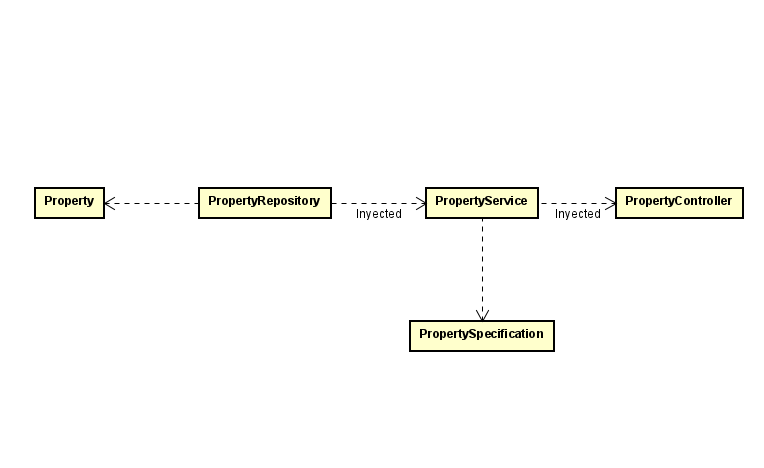
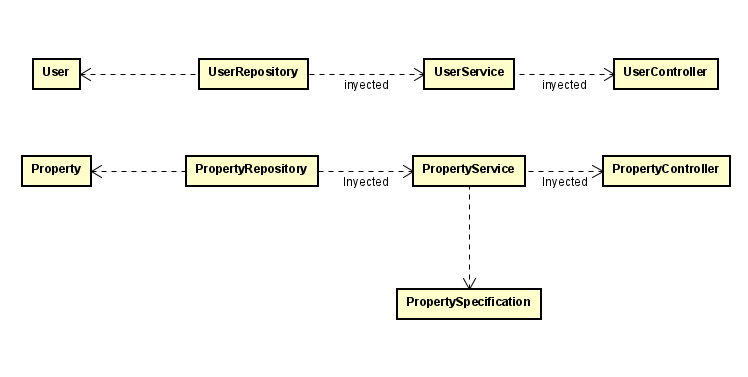
change readme

diff --git a/README.MD b/README.MD
@@ -1,36 +1,20 @@
 # Spring Server
+This repository contains an example of how to build a web server using Spring. It covers the complete process of creating the model, repository, service, and controller, as well as an additional class for filtering data during fetching. The project uses a MySQL database to persist data and is deployed to run in the cloud with AWS.
 
-This repository contains an example of how to build a web server using Spring. It covers the complete process of creating the model, repository, service, and controller, as well as an additional class for filtering data during fetching. The project uses a MySQL database to persist data and is deployed to work in the cloud with AWS.
+Additionally, a secure connection was implemented using Let's Encrypt certificates, enabling HTTPS requests to the pages. Furthermore, the deployment includes an Apache web server to provide a complete service.
 
 ## Getting Started
 
 This project is built in Java using Maven. Additional Spring Boot dependencies, such as Spring Web and JPA, are included in the pom.xml file.
 
-Important: This server requires a properly configured database to work. You must update the connection settings in the /src/main/resources/application.properties file.
+Important: This server requires a properly configured database to function. The database is set up in the docker-compose file, so use this as a reference to modify users or other aspects as needed.
 
 ### Prerequisites
 
 Before running this project, ensure you have the following installed on your system:
 
-* Java Development Kit (JDK) 21 or more
-    * Download and install from: [Oracle JDK or OpenJDK](https://www.oracle.com/co/java/technologies/downloads/)
-    * Verify installation with:
-        ```
-        java -version
-        ```
-* Apache Maven (for dependency management and build automation)
-    * Install from: [Maven Downloads](https://maven.apache.org/download.cgi#Installation)
-    * Verify installation with:
-        ```
-        mvn -version
-        ```
-* Git (to clone the repository)
-    * Install from: [Git Downloads](https://git-scm.com/downloads)
-    * Verify installation with:
-        ```
-        git --version
-        ```
-
+* Docker
+    
 ### Installing
 
 Follow these steps to set up and run the project in your local development environment:
@@ -38,92 +22,84 @@ Follow these steps to set up and run the project in your local development envir
 Clone the Repository:
 
 ```
-git clone https://github.com/MateoSebF/Taller5_AREP
+git clone https://github.com/MateoSebF/Taller6_AREP
 
 ```
 
 Navigate to the Project Directory:
 
 ```
-cd Taller5_AREP
+cd Taller6_AREP
 ```
 
-Build the Project with Maven:
+Build the Project with Docker:
 
-```
-mvn clean compile
-```
-
-Run the Web Server:
-
-```
-mvn clean compile exec:java
-```
-or
-```
-java -cp "target/classes" co.edu.eci.arep.springweb.SpringWebApplication
-```
 
 ### Architecture
 To understand the architecture followed in this article, we are going to use a diagram like this:
 
 ![Class Diagram](images/Class_Diagram.png)
 
-In this architecture, we consider the interaction between the components of the app to achieve the desired result. In this case, as is usually done, we have four principal components:
+In this architecture, we extend the structure of Lab5_AREP with the login system by defining the interaction between key components to ensure secure authentication. The design consists of four main components:
 
-Property: This is the model class where we define all the logic of a property, including attributes like id, direction, price, size, and name. This class is annotated with @Entity, indicating that it represents a table in our database.
+User: This is the model class where we define user-related attributes, such as id, email, and password. It is annotated with @Entity, indicating that it represents a table in the database.
 
-PropertyRepository: This class allows us to interact with the database, enabling operations such as saving, deleting, and retrieving data. It is annotated with @Repository, which makes it possible to inject it into the PropertyService.
+UserRepository: This interface extends JpaRepository and allows interaction with the database, enabling operations such as saving, deleting, and retrieving user data. It is annotated with @Repository, making it injectable into the UserService.
 
-PropertyService: This class defines the logic for querying the repository. A special feature of our app is the PropertySpecification class, which allows searching for properties based on various criteria such as a minimum price range, a size range, or a specific direction. Using this class, we can query the repository with a specific specification, making the program more dynamic.
+UserService: This class contains the business logic for user authentication and management. It handles operations like user registration, password encoding, and authentication validation. It interacts with UserRepository to fetch or update user data securely.
 
-PropertyController: This class injects the PropertyService, which is annotated with @Service, making it a bean that can be injected. The controller exposes an endpoint called /api/properties, where all required queries can be made.
+UserController: This class serves as the entry point for authentication-related operations. It is annotated with @RestController and exposes endpoints such as /auth/register and /auth/login. The controller processes authentication requests, validates user credentials, and returns appropriate responses, such as JWT tokens for secure session management.
 
-This image illustrates the functionality of the application, including the implementation of additional features such as pagination and the ability to filter properties using specific criteria. 
+This architecture ensures a clear separation of concerns, making the system maintainable and scalable. Security measures, such as password hashing using BCryptPasswordEncoder.
 
-![Example of working](/images/Example_of_working.png)
+# Deployment
+To deploy this project, we use a Docker-based solution on AWS, ensuring a secure and scalable setup.
 
-The section "Deployment Demo" provides a complete demonstration of the project's use case.
+## AWS Deployment
+To deploy the application on AWS, we performed the following steps:
 
-## Deployment  
+1. Created two EC2 instances—one for the backend and one for the frontend.
+2. Configured security rules to allow inbound traffic on the required ports:
+    - 80 and 443 for HTTPS access.
+    - 3306 for MySQL (restricted access).
+3. Assigned an Elastic IP to each instance to ensure a static address.
+4. Configured a custom domain using Duck DNS, associating it with the Elastic IPs.
+5. Installed Let's Encrypt and Certbot on both instances to generate SSL certificates, enabling secure HTTPS connections for both the frontend and backend.
 
+## Backend Deployment
+1. Installed Git and Docker on the EC2 instance.
 
-To deploy this project, we provide a Docker-based solution.
+2. Cloned the repository and navigated to the backend folder.
 
-First, we create a MySQL image and deploy it on Azure, ensuring that port 3306 is correctly configured. After that, we update the database information in the application.properties file.
+3. Ran the following command to build and start the backend and database containers:
 
-Next, we create an image using a Dockerfile to configure the environment. This file specifies important aspects such as the port configuration. This is crucial because, when deploying the application, you need to specify both the internal port used by the app and the external port to expose.
+```
+docker-compose up --build -d
+```
 
-To deploy this service, you should create the image using the Dockerfile. This process automatically retrieves dependencies, compiles the classes, and includes the static files necessary for the correct functioning of the server. You must then link this image to a repository in Docker Hub. Once this is done, you can run the container on AWS. By configuring the security group to accept the necessary requests and linking a correctly configured database, the application will function properly.
+4. This command builds the backend image and deploys both the backend and MySQL containers.
+5. The application now runs securely with HTTPS, as seen in the deployment demo.
 
-### AWS Deployment  
+## Frontend Deployment
+1. Installed Git and Docker on the frontend EC2 instance.
 
-To deploy the application on **AWS**, follow these steps:  
+2. Cloned the repository and navigated to the frontend folder.
 
-1. **Create an EC2 instance** according to your requirements.  
-2. **Configure security rules** for the instance:  
-   - Allow inbound connections to the port you want to expose (e.g., `8080`).  
-3. **Connect to the EC2 instance** via SSH.  
-4. **Install and configure Docker** on the instance.  
-5. **Run the container** using the following command:  
+3. Built the frontend Docker image using:
 
-   ```sh
-   docker run -d -p 8080:8080 --name name_container your_user/your_repo 
-   ```
-    ### Container Configuration  
+```
+docker build -t frontend-app .
+```
+4. Ran the frontend container using:
 
-- `8080` is the **internal port** used by the server (defined in the `Dockerfile` as an environment variable).  
-- `8080` is the **exposed port** that will be accessible from the internet.  
-
-Once the container is running, you can access the application via the **public DNS** provided by AWS.  
-
-### Endpoint Structure  
-
-- **REST API endpoints:** `/app/repositories`   
+```
+docker run -d -p 80:80 -p 443:443 --name frontend-container frontend-app
+```
+5. The frontend is now accessible via the configured Duck DNS domain over HTTPS.
 
 ### Link to Deployment Demo Demostration 
 
-[Watch the deployment in action](https://pruebacorreoescuelaingeduco.sharepoint.com/sites/Reco842/Shared%20Documents/General/Recordings/Reuni%C3%B3n%20en%20_General_-20250305_170626-Grabaci%C3%B3n%20de%20la%20reuni%C3%B3n.mp4?web=1&referrer=Teams.TEAMS-WEB&referrerScenario=MeetingChicletGetLink.view)  
+[Watch the deployment in action](https://pruebacorreoescuelaingeduco.sharepoint.com/sites/Reco842/Shared%20Documents/General/Recordings/Reuni%C3%B3n%20en%20_General_-20250314_011913-Grabaci%C3%B3n%20de%20la%20reuni%C3%B3n.mp4?web=1&referrer=Teams.TEAMS-WEB&referrerScenario=MeetingChicletGetLink.view)  
 
 
 ## Built With
